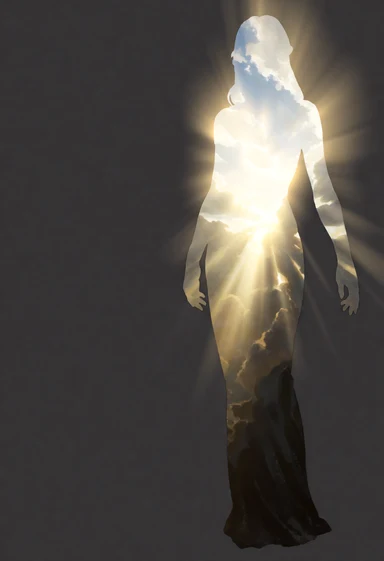
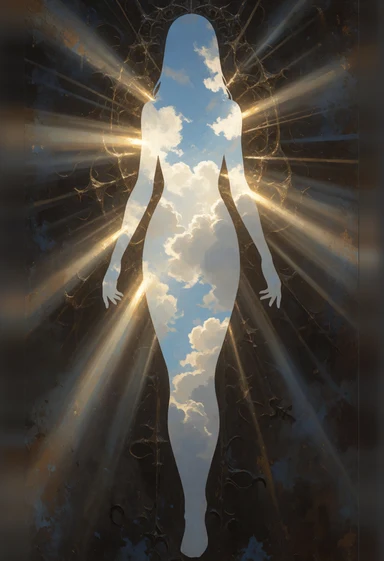
Portraits: the Godkin painted fresh from words, god rays across the whole card

diff --git a/scripts/art/portraits.ts b/scripts/art/portraits.ts
@@ -395,12 +395,12 @@ const UNITS: Readonly<Record<string, Unit>> = {
       "she stands upright and still in the heart of daybreak: blinding shafts of golden sunlight and god rays burst out of her in every direction and stream far across the dark around her, the whole image lit by her dawn, the darkness behind her split by long beams of light",
     ],
     strengths: T_POSED,
-    // The card's god rays are a light effect laid on top (`godkin-card-pose1-d75-rays.png`: the brightest light streaked
-    // outward from her centre and screened back in gold), since image-to-image keeps the background dark. The pose
-    // model sees no person in a silhouette, so the crops are measured from her outline (the head at its top).
+    // Picked: a fresh card (`--fresh`, seed 1006), painted from words with the god rays across the whole image, its thin
+    // grey side margins replaced by its own dark edges stretched outward (`godkin-fresh-1006-card.png`). The pose model sees no person in a silhouette: the crops are
+    // measured from her outline (the head at its top).
     picked: {
-      card: "godkin-card-pose1-d75-rays.png",
-      crops: { bust: { from: "card", size: 0.55, x: 0.67, y: 0.2 }, icon: { from: "card", size: 0.32, x: 0.684, y: 0.125 } },
+      card: "godkin-fresh-1006-card.png",
+      crops: { bust: { from: "card", size: 0.56, x: 0.5, y: 0.2 }, icon: { from: "card", size: 0.3, x: 0.5, y: 0.095 } },
     },
   },
   reclaimer: {
